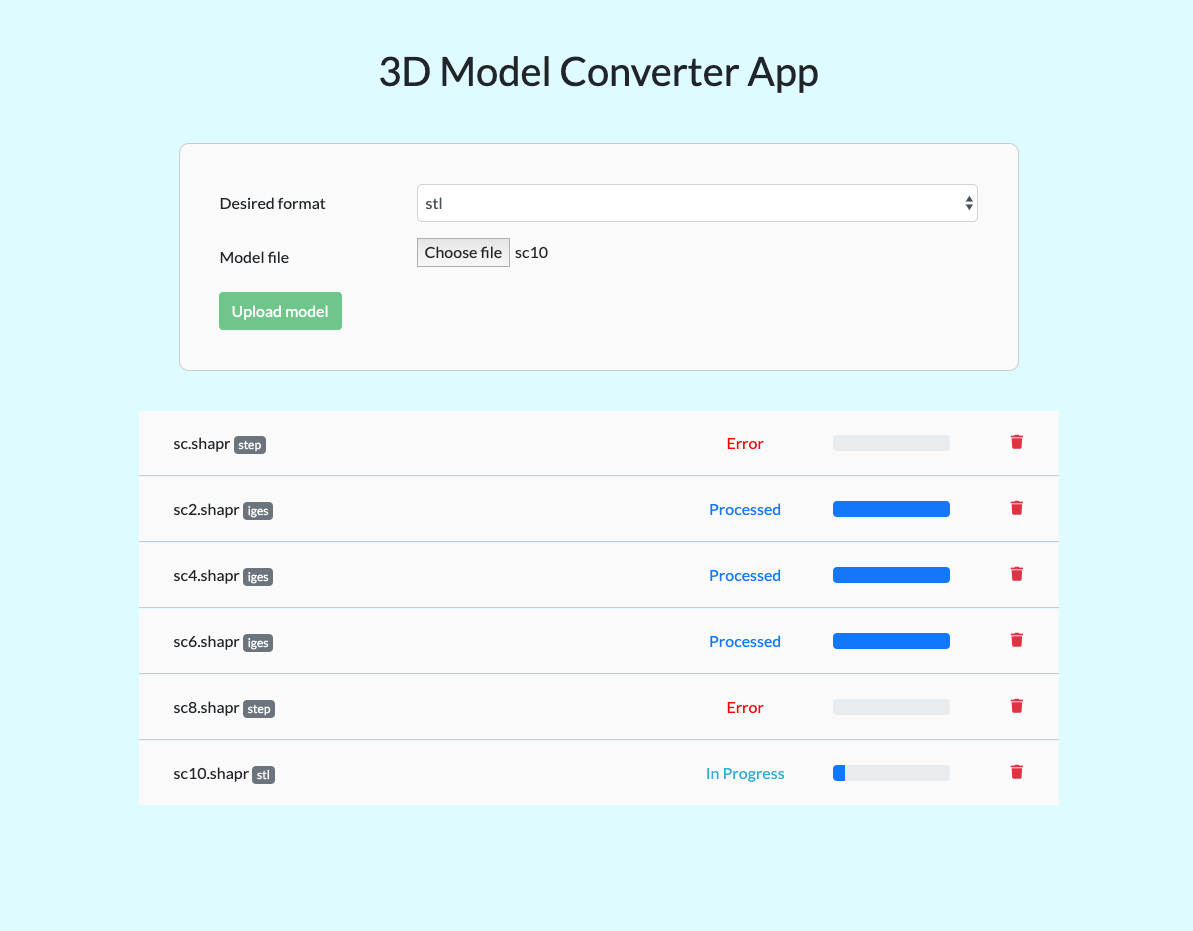
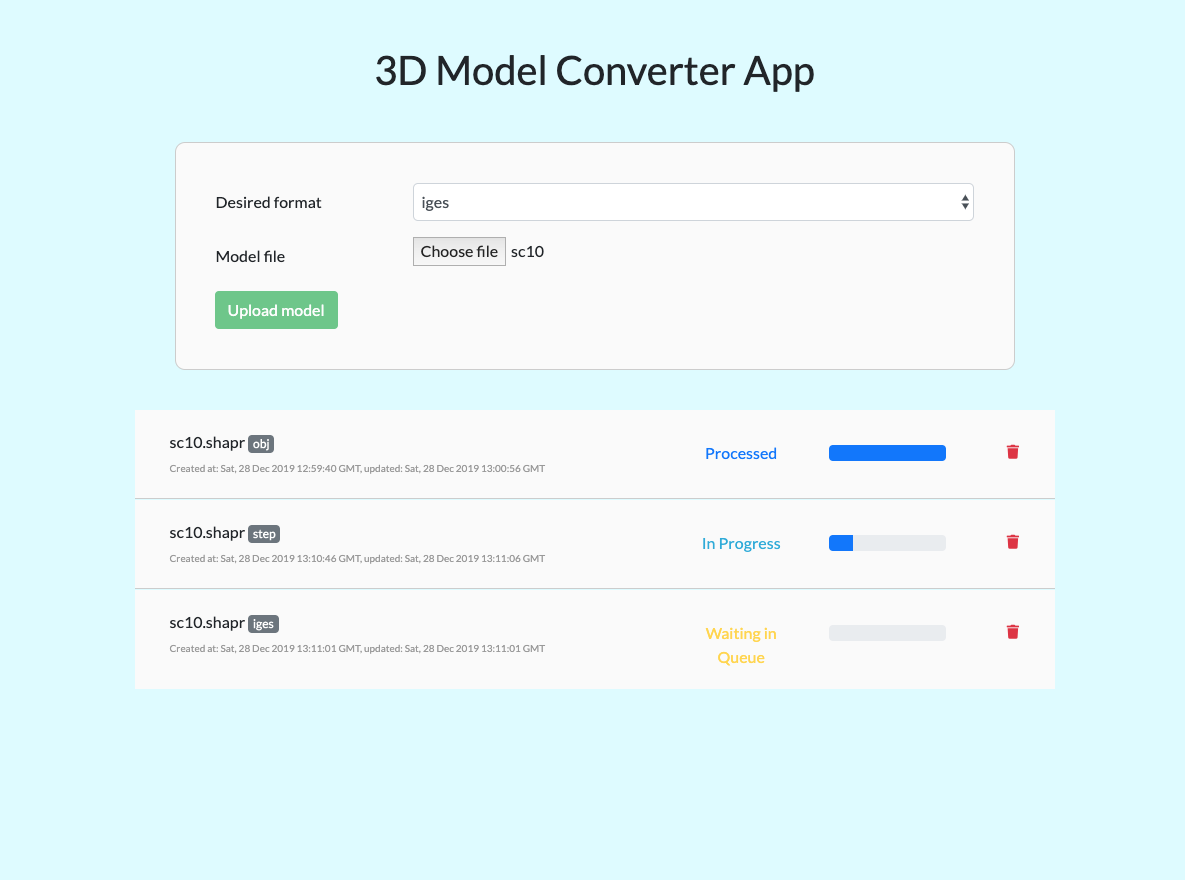
Displaying dates

diff --git a/static/js/app.js b/static/js/app.js
@@ -197,14 +197,19 @@ function ModelDisplay({ model, onModelRemoval }) {
         <Row className="grid-row">
             <Col xs={7} className="filename">
                 {model.filename} <Badge variant="secondary">{model.format}</Badge>
+                <br />
+                <span className="dates">
+                    Created at: {(new Date(model.createdAt)).toUTCString()},
+                    updated: {(new Date(model.updatedAt)).toUTCString()}
+                </span>
             </Col>
-            <Col xs={2} className={`process-status text-center ${model.status}`}>
+            <Col xs={2} className={`process-status text-center ${model.status} padding-top-11`}>
                 {getModelStatusText(model.status, model.outputFile)}
             </Col>
-            <Col xs={2} className="progress-bar-col">
+            <Col xs={2} className="progress-bar-col padding-top-15">
                 <ProgressBar now={model.progress} />
             </Col>
-            <Col xs={1} className="text-center remove">
+            <Col xs={1} className="text-center remove padding-top-11">
                 <Button
                     className="remove-fix-pos"
                     size="sm"

diff --git a/static/css/styles.css b/static/css/styles.css
@@ -17,10 +17,6 @@ body {
     padding-top: 4px;
 }
 
-.process-status.processed {
-    color: green;
-}
-
 .process-status.in-progress {
     color: #30acd9;
 }
@@ -35,7 +31,7 @@ body {
 
 .remove-fix-pos {
     position: absolute;
-    top: -5px;
+    top: 6px;
 }
 
 .upload-model {
@@ -59,4 +55,17 @@ body {
 
 .margin-top-10 {
     margin-top: 10px;
+}
+
+.dates {
+    font-size: 10px;
+    color: #999;
+}
+
+.padding-top-11 {
+    padding-top: 11px;
+}
+
+.padding-top-15 {
+    padding-top: 15px;
 }

diff --git a/src/providers/index.ts b/src/providers/index.ts
@@ -1,1 +1,2 @@
 export * from './database'
+export * from './process'
